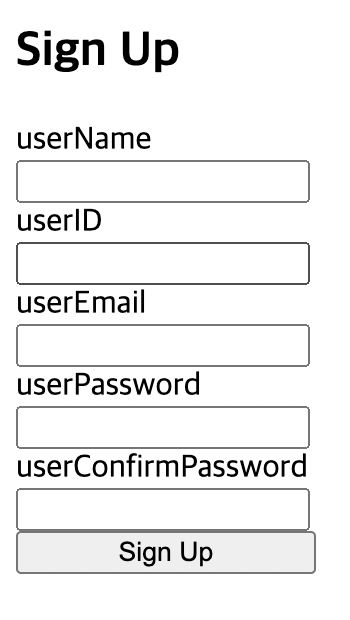
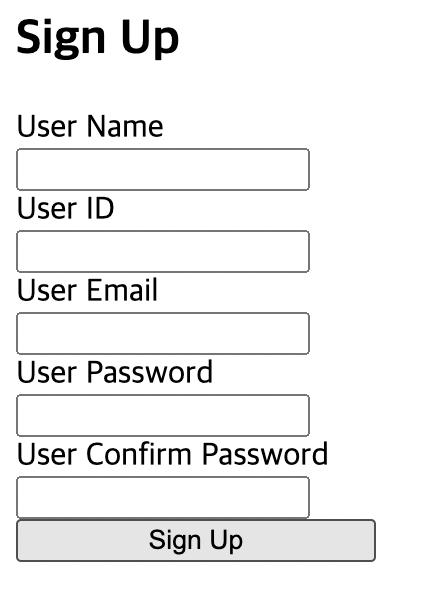
useReducer 2번째 글 작성

Changed region(s): [[0.0286, 0.1794, 0.9143, 0.9568], [0.0286, 0.0299, 0.5143, 0.1196], [0.7429, 0.6279, 0.8571, 0.6578]]

diff --git a/content/blog/react-1-2/index.md b/content/blog/react-1-2/index.md
@@ -13,12 +13,12 @@ tags: ["web", "study", "front", "react"]
 
 그럼 이제 useReducer가 어떤 문법으로 작동하는지도 알았고 백엔드와 같이 특정 데이터를 api를 통해 관리하는 모델처럼 볼 수 있다는 점도 알았다. 이제 useReducer를 어떻게 활용할 수 있는지 알아보자.
 
-여러 시행착오와 많은 사람들([이창희](https://xo.dev/)와 [유동근](https://github.com/CreeJee)님 등등)에게 물어본 결과, 일단 useReducer를 기본적으로 잘 쓰지는 않지만 쓰게 되면 이점은 다음과 같다고 한다.
+여러 시행착오를 겪고 또 많은 사람들([이창희](https://xo.dev/)와 [유동근](https://github.com/CreeJee)님 등등)과 논의한 결과, useReducer를 사용할 때 얻을 수 이점은 다음과 같다.
 
 1. 상태 관리 로직을 분리함으로써 상태 업데이트의 내부 로직을 알지 않아도 상태를 사용할 수 있게 되어 복잡한 상태 관리가 편해진다는 점. 즉 상태 업데이트 로직을 은닉할 수 있다는 점
 2. 상태 업데이트 시 새로운 상태를 검증하는 등, 어떤 동작을 같이 해 줘야 할 경우 새로운 함수를 만들지 않고도 reducer에 로직을 추가하는 식으로 작성할 수 있다는 점
 3. 상태 업데이트를 담당하는 dispatch가 순수 함수이므로 테스팅에 이점이 있다는 점
-4. useState를 사용하는 것에 비해 리렌더링을 덜 하게 되는 경우가 생길 수 있는 점
+4. useState를 사용하는 것에 비해 리렌더링 최적화가 쉬울 수 있는 점
 
 이 각각의 경우를 하나씩 알아보도록 하자.
 
@@ -26,80 +26,7 @@ tags: ["web", "study", "front", "react"]
 
 ## 3.1 useState를 사용
 
-useReducer를 사용하면 상태 로직을 컴포넌트에서 분리하여 여러 개의 state를 편리하게 관리할 수 있다는 장점이 있다. 예를 들어서 회원가입 컴포넌트를 만든다고 하자. 이 컴포넌트는 이름, 아이디, 이메일, 비밀번호, 비밀번호 확인 등의 정보를 입력받아야 한다. 일단 이 5개의 요소만 받아서 회원가입을 시켜준다고 해보자. 이렇게 여러 개의 state를 관리해야 하는 경우에는 useState를 사용하면 다음과 같이 폼 관리 로직을 작성할 수 있다.
-
-물론 회원가입 폼의 정보를 담는 객체를 이용해서 단순화할 수도 있을 것이다. 하지만 하나의 컴포넌트에서 여러 개의 상태를 관리해야 하며 객체를 이용한 단순화가 힘든 경우는 분명 생긴다. 그것의 모델링이라 생각하자.
-
-```tsx
-function SignUpForm() {
-  const [userName, setUserName] = useState("");
-  const [userID, setUserID] = useState("");
-  const [userEmail, setUserEmail] = useState("");
-  const [userPassword, setUserPassword] = useState("");
-  const [userConfirmPassword, setUserConfirmPassword] = useState("");
-
-  const handleUserNameChange = (e: React.ChangeEvent<HTMLInputElement>) => {
-    setUserName(e.target.value);
-  };
-
-  const handleUserIDChange = (e: React.ChangeEvent<HTMLInputElement>) => {
-    setUserID(e.target.value);
-  };
-
-  const handleUserEmailChange = (e: React.ChangeEvent<HTMLInputElement>) => {
-    setUserEmail(e.target.value);
-  };
-
-  const handleUserPasswordChange = (e: React.ChangeEvent<HTMLInputElement>) => {
-    setUserPassword(e.target.value);
-  };
-
-  const handleUserConfirmPasswordChange = (
-    e: React.ChangeEvent<HTMLInputElement>
-  ) => {
-    setUserConfirmPassword(e.target.value);
-  };
-
-  return (
-    <section>
-      <h1>Sign Up</h1>
-      <form
-        style={{ display: "flex", flexDirection: "column", width: "180px" }}
-      >
-        <label>
-          User Name
-          <input type="text" onChange={handleUserNameChange} />
-        </label>
-        <label>
-          User ID
-          <input type="text" onChange={handleUserIDChange} />
-        </label>
-        <label>
-          User Email
-          <input type="text" onChange={handleUserEmailChange} />
-        </label>
-        <label>
-          User Password
-          <input type="text" onChange={handleUserPasswordChange} />
-        </label>
-        <label>
-          User Confirm Password
-          <input type="text" onChange={handleUserConfirmPasswordChange} />
-        </label>
-        <button type="submit">Sign Up</button>
-      </form>
-    </section>
-  );
-}
-```
-
-스타일링을 하지 않아서 별로 볼품은 없지만 다음과 같은 간단한 회원가입 폼이 완성되었다. 제출 동작은 콘솔에 폼의 내용을 출력하는 것으로 구현했다.
-
-![signupform](./signupform.png)
-
-## 3.2 useReducer를 이용한 경우
-
-useReducer를 이용하면 다음과 같은 코드가 된다. 객체를 이용해 좀더 세련되게 짜보았다.
+useReducer를 사용하면 상태 로직을 컴포넌트에서 분리하여 여러 개의 state와 그 상태들이 얽힌 동작을 편리하게 관리할 수 있다는 장점이 있다. 예를 들어서 회원가입 컴포넌트를 만든다고 하자. 이 컴포넌트는 이름, 아이디, 이메일, 비밀번호, 비밀번호 확인 등의 정보를 입력받아야 한다. 일단 이 5개의 요소만 받아서 회원가입을 시켜준다고 해보자. 이렇게 여러 개의 state를 관리해야 하는 경우에는 useState를 사용하면 다음과 같이 폼 관리 로직을 작성할 수 있다.
 
 ```tsx
 interface SignUpFormType {
@@ -118,6 +45,50 @@ const initialSignUpForm: SignUpFormType = {
   "User Confirm Password": "",
 };
 
+function SignUpForm() {
+  const [userSignUpForm, setUserSignUpForm] = useState(initialSignUpForm);
+
+  const handleChange = (e: React.ChangeEvent<HTMLInputElement>) => {
+    setUserSignUpForm({
+      ...userSignUpForm,
+      [e.target.name]: e.target.value,
+    });
+  };
+
+  return (
+    <section>
+      <h1>Sign Up</h1>
+      <form
+        style={{ display: "flex", flexDirection: "column", width: "180px" }}
+      >
+        {Object.keys(userSignUpForm).map((key) => (
+          <label key={key}>
+            {key}
+            <input
+              type="text"
+              id={key}
+              name={key}
+              value={userSignUpForm[key]}
+              onChange={handleChange}
+            />
+          </label>
+        ))}
+        <button type="submit">Sign Up</button>
+      </form>
+    </section>
+  );
+}
+```
+
+스타일링을 하지 않아서 별로 볼품은 없지만 다음과 같은 간단한 회원가입 폼이 완성되었다.
+
+![signupform](./signupform.png)
+
+## 3.2 useReducer를 이용한 경우
+
+같은 타입과 `initialSignUpForm`을 사용하고 useReducer를 이용하여 같은 동작의 코드를 다음과 같이 작성할 수도 있다.
+
+```tsx
 const signUpReducer = (
   state: SignUpFormType,
   action: { type: string; payload: { key: string; value: string } }
@@ -135,11 +106,6 @@ const signUpReducer = (
 
 const ReducerSignUpForm = () => {
   const [state, dispatch] = useReducer(signUpReducer, initialSignUpForm);
-
-  const handleSubmit = (e: FormEvent<HTMLFormElement>) => {
-    e.preventDefault();
-    console.log(state);
-  };
 
   const handleChange = (e: React.ChangeEvent<HTMLInputElement>) => {
     dispatch({
@@ -161,7 +127,13 @@ const ReducerSignUpForm = () => {
         {Object.keys(state).map((key) => (
           <label key={key}>
             {key}
-            <input type="text" id={key} name={key} onChange={handleChange} />
+            <input
+              type="text"
+              id={key}
+              name={key}
+              value={userSignUpForm[key]}
+              onChange={handleChange}
+            />
           </label>
         ))}
         <button type="submit">Sign Up</button>
@@ -173,13 +145,122 @@ const ReducerSignUpForm = () => {
 
 ## 3.3 useState, useReducer의 비교
 
-타입을 사용하면서 코드 자체는 좀 길어졌다. 하지만 상태 업데이트 함수도 간소하게 바뀌었고 업데이트 함수를 사용하는 측에서는 Action만 잘 전달하면 상태 업데이트 내부 로직을 신경쓰지 않아도 코드를 짤 수 있게 되었다.
+useReducer를 사용하는 코드를 보자. 업데이트 함수를 사용하는 측에서는 Action만 잘 만들어서 dispatch 함수로 전달하면 reducer함수가 알아서 상태를 변경해 준다. 상태 업데이트 내부 로직을 신경쓰지 않아도 코드를 짤 수 있게 된 것이다.
 
-useReducer를 사용한 코드의 경우 회원가입 정보를 객체에 담아서 좀더 세련되게 작성되어 있다. 타입도 사용하였다. 하지만 주목할 점은 그게 아니다. 회원가입 폼 정보를 객체에 담아서 회원가입 폼을 좀더 깔끔하게 짜는 건 useState를 써도 얼마든지 할 수 있는 일이다.
+`ReducerSignUpForm` 컴포넌트에서는 다른 사람이 작성했을 수도 있을 dispatch 함수 내에서 어떻게 업데이트를 하는지 신경쓰지 않고도 상태를 업데이트할 수 있는 것이다! 반면 useState를 사용할 경우 상태 업데이트 로직은 `SignUpForm`내에 존재해야 한다.
 
-정말 달라진 점은 상태 관리 로직이 컴포넌트와 분리되었다는 것이다. 이제 회원가입 폼 상태를 사용하는 측에서는 action만 잘 만들어서 reducer에 그리고 순수 함수만을 이용해서 상태 관리 로직을 작성했다는 것이다. 이것이 useReducer를 사용한 이유이다.
+이는 생각보다 편리한 기능이다. 예를 들어서 어떤 이유로 회원가입 폼을 리셋하는 기능을 만들어야 한다면 useState를 사용하는 경우 다음과 같은 함수를 회원가입 폼 컴포넌트 내에 새로 만들어 줘야 한다. 이 함수는 `SignUpForm`내에 작성해야 한다.
+
+```tsx
+const signUpFormReset = () => {
+  setUserSignUpForm(initialSignUpForm);
+};
+```
+
+그러나 reducer 함수를 사용한다면 reducer 함수에 적당한 리셋 로직을 추가해주면 된다. 이는 reducer 함수를 작성하는 사람이 알아서 해주면 되는 일이다. 그리고 사용하는 측에서는 그저 다음과 같이 쓰면 된다.
+
+```tsx
+const signUpFormReset = () => {
+  dispatch({
+    type: "RESET",
+  });
+};
+```
+
+이 회원가입 폼은 작은 컴포넌트이므로 모든 로직을 한 곳에 모아두는 것이 좋다고 생각할 수 있다. 하지만 컴포넌트가 커지고 복잡해지면 이런 방식은 유지보수하기가 어려워진다.
+
+그럴 때는 useReducer를 사용하여 관리 로직을 다른 곳에 분리하는 것이 좋다. state업데이트 함수와 그 활용을 하나의 컴포넌트에 몰아넣는 것보다는 신뢰할 수 있는 reducer함수를 작성한 후 거기에 상태 관리를 맡기는 것이 더 유지보수하기 편해진다.
+
+또한 useReducer와 useContext 훅을 함께 사용하는 테크닉도 있다. dispatch 함수를 ContextProvider를 이용해서 하위 컴포넌트로 내려보내면 하위 컴포넌트에서는 dispatch만을 이용해서 상태를 업데이트할 수 있다.
 
 # 4. state를 설정할 때 특정 작업을 함께하는 경우
+
+어떤 작업을 실행하기 전에 특정 작업을 함께 실행해야 하는 경우가 있다. 예를 들어서 회원가입 폼을 업데이트하기 전에 유효성 검사를 해야 하는 경우가 그렇다. 이런 경우에는 `useReducer`를 사용하면 편리하다.
+
+회원가입 폼에 아이디를 작성할 때 10글자 이상은 타이핑할 수 없도록 한다고 해보자. 그러면 다음과 같이 handleChange 함수 자체를 바꿀 수도 있다.
+
+```tsx
+const handleChange = (e: React.ChangeEvent<HTMLInputElement>) => {
+  if (userSignUpForm["User ID"].length <= 10) {
+    setUserSignUpForm({
+      ...userSignUpForm,
+      [e.target.name]: e.target.value,
+    });
+  }
+};
+```
+
+`handleUserIDChange`와 같은 새로운 함수를 작성해서 할 수도 있다. 하지만 useState가 제공해 주는 `state`, `setState`는 게터와 세터의 역할을 한다고도 할 수 있다. 그런데 이를 사용하는 쪽에서 세터에 전달하는 값을 따로 검증해야 한다는 건 뭔가 이상하다. 세터에서 자체적으로 값을 검증하면 더 좋을 것 같다.
+
+이런 방식의 코드를 useReducer에서 작성할 수 있다. 상태의 업데이트 자체를 담당하는 reducer 함수가 따로 있기에 가능하다. 다음과 같이 리듀서 함수를 작성해 주면 된다. 이렇게 하면 회원가입 폼 컴포넌트 코드는 단 한 글자도 바꾸지 않고도 회원가입 폼 입력시 검증이 가능해진다.
+
+```tsx
+const signUpReducer = (
+  state: SignUpFormType,
+  action: { type: string; payload: { key: string; value: string } }
+) => {
+  switch (action.type) {
+    case "UPDATE":
+      if (state["User ID"].length <= 10) {
+        return {
+          ...state,
+          [action.payload.key]: action.payload.value,
+        };
+      } else {
+        return state;
+      }
+    default:
+      throw new Error(`Unknown action type: ${action.type}`);
+  }
+};
+```
+
+물론 이 코드를 그대로 쓸 수는 없다. 사용자가 작성한 아이디가 어떤 이유로 10글자를 넘었을 경우 아예 다른 칸의 변경을 막아버리기 때문이다. 위의 코드는 `useReducer`를 사용할 경우 상태 업데이트 함수가 세터의 역할을 더 잘 수행할 수 있다는 것을 보여주기 위한 예시 코드이다.
+
+# 5. 리렌더링 최적화를 할 경우
+
+리액트는 상태가 변경되면 컴포넌트를 리렌더링한다. 그런데 컴포넌트가 리렌더링되는 것은 비용이 큰 작업이다. 그래서 리렌더링을 최소화하는 것이 중요하다.
+
+그리고 리렌더링이 일어나는 조건 중 하나는 컴포넌트가 가지고 있는 state가 변경되는 것이다. 그런데 어떤 경우 하나의 함수에서 여러 개의 state를 업데이트해줘야 하는 경우가 있을 수 있다. 예를 들어서 3개의 색깔 칸을 표시하는 다음과 같은 코드를 보자.
+
+```tsx
+function Colors() {
+  const [firstColor, setFirstColor] = useState("red");
+  const [secondColor, setSecondColor] = useState("blue");
+  const [thirdColor, setThirdColor] = useState("green");
+
+  const setColorSet = () => {
+    setFirstColor(secondColor);
+    setSecondColor(thirdColor);
+    setThirdColor(firstColor);
+  };
+
+  return (
+    <div style={{ display: "flex", flexDirection: "row" }}>
+      <button onClick={setColorSet}>Red</button>
+      <div
+        style={{ backgroundColor: firstColor, width: "100px", height: "100px" }}
+      ></div>
+      <div
+        style={{
+          backgroundColor: secondColor,
+          width: "100px",
+          height: "100px",
+        }}
+      ></div>
+      <div
+        style={{ backgroundColor: thirdColor, width: "100px", height: "100px" }}
+      ></div>
+    </div>
+  );
+}
+```
+
+이렇게 코드를 작성할 시 3번 리렌더링되게 된다.(React 17까지 그렇다.) 하지만 이를 useReducer로 작성하면 1번만 리렌더링되게 된다. reducer를 활용하면 상태가 1번만 변경되기 때문이다.
+
+# 6. 테스트를 작성할 경우
+
+동일한 인자를 주었을 때 늘 동일한 인자를 반환하며 부수 효과가 없는 순수 함수는 테스트하기 쉽다. 그리고 useReducer의 dispatch는 순수 함수로 작성하기 쉬운 편이다. 연관된 모든 요소를 action의 payload로 넘겨주기 때문이다. 그래서 useReducer를 사용할 경우 테스트를 작성하기 쉬워진다. 다만 구체적인 예시의 경우 아직 테스트 작성에 익숙하지 않아 작성하지 못했다. 언젠가 테스트 코드 작성에 능숙해지면 다시 와서 작성하도록 하겠다.
 
 # 참고
 
@@ -192,3 +273,5 @@ useReducer의 사용에 관한 구체적인 글 https://devtrium.com/posts/how-t
 useReducer가 최적화에 도움이 될 때 https://stackoverflow.com/questions/54646553/usestate-vs-usereducer
 
 useReducer를 언제 써야 하는지와 써야하는 이유에 관한 짧은 글 https://dev.to/spukas/3-reasons-to-usereducer-over-usestate-43ad#:%7E:text=useReducer()%20is%20an%20alternative,understand%20for%20you%20and%20colleagues
+
+순수 함수에 관하여 https://www.learnhowtoprogram.com/react/functional-programming-with-javascript/pure-functions
